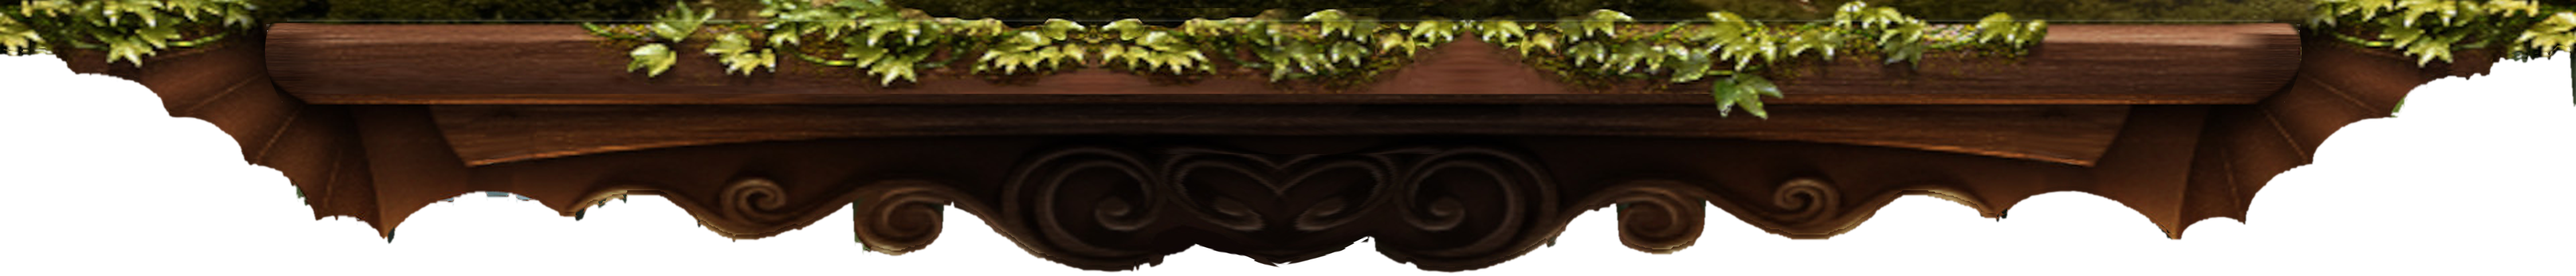
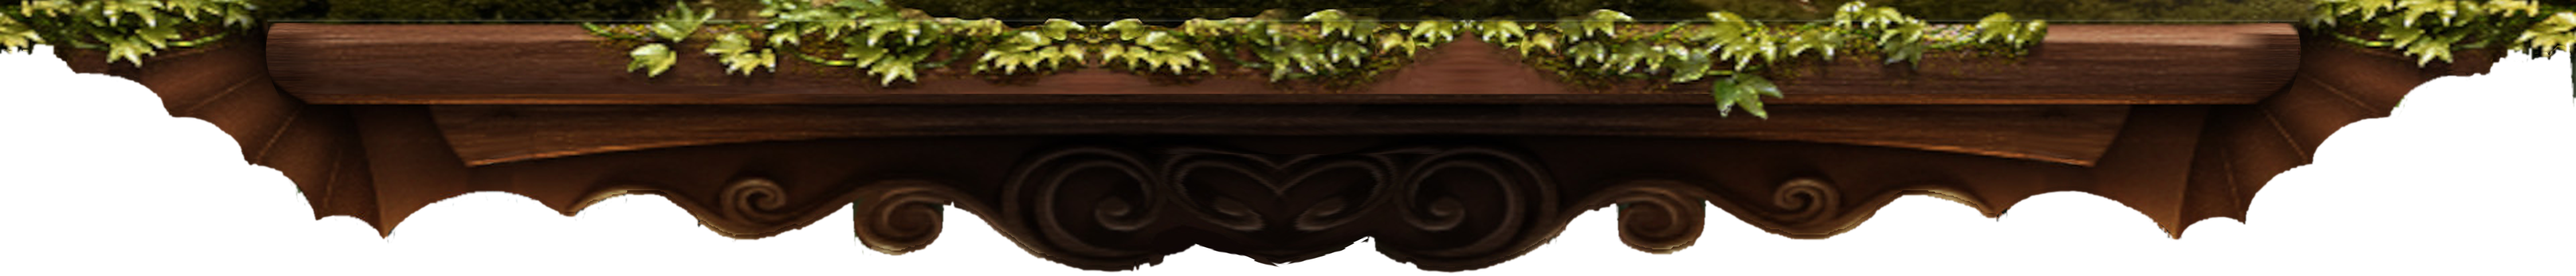
fix(drevo-a-erb-v3): clean cap edges and carved contour at 1920
- Ivy touching a cap's drawn edge now goes with the ivy, not the
  board, and dark shadow sits right behind each cap edge. This removes
  the light sliver along the right log end.
- Background baked in just above the plank boundary is now made
  transparent: the unbroken run of non-wood pixels going up from the
  boundary. This removes the dark drips and light bites under the
  left scallops.
- The filled photo area is tall enough for portrait-tablet aspect
  ratios too.
- CREDITS.md now names forest-header.jpg as the photo source.

diff --git a/tools/hero-v3/build_layers.py b/tools/hero-v3/build_layers.py
@@ -29,7 +29,7 @@ BAND = (70, 144)             # plain board rows removed
 DELTA = BAND[1] - BAND[0]
 MOSS_FADE = (12, 21)         # the moss strip along the top fades out between these rows
 LEAF = (1232, 1338, 58, 94)  # the one ivy leaf that hangs into the cut band stays in place
-PLANK_SCALE_MIN = 0.75       # lowest plank-to-photo scale ratio the hero produces (wide-short screens = 1)
+PLANK_SCALE_MIN = 0.6        # lowest plank-to-photo scale ratio the hero produces (portrait tablets ~0.65)
 
 
 def cap_left(y):   # barrel-shaped left end of the board, x of its outer edge per source row
@@ -145,12 +145,19 @@ def build_plank(hdr, ysub, hole1, strip, S):
     hue, sat, val = hsv(hdr[:H1])
     ivy1 = (hue > 50) & (hue < 120) & (sat > 0.22) & (val > 0.18)
     ivy1 = ndi.binary_dilation(ndi.binary_closing(ivy1, iterations=1), iterations=1).astype(np.float32)
-    # photo fringe baked into the carved edge: light or green/blue pixels just inside the contour
-    rows1 = np.arange(H1)[:, None]
-    near = (rows1 >= np.floor(ysub)[None, :] - 3) & (rows1 <= np.floor(ysub)[None, :] + 1)
+    # photo baked in just inside the contour: from the boundary upward, the unbroken run of pixels that
+    # aren't wood-coloured (green, grey, blue or white) is background and becomes transparent
     warm = ((hue <= 48) | (hue >= 335)) & (sat >= 0.15)
     whitish = (sat < 0.18) & (val > 0.45)
-    fringe1 = (near & (~warm | whitish) & (val > 0.3)).astype(np.float32)
+    notwood = (~warm | whitish) & (val > 0.08)
+    fringe1 = np.zeros((H1, W1), np.float32)
+    yb0 = np.floor(ysub).astype(int)
+    alive = np.ones(W1, bool)
+    for k in range(-1, 8):
+        y = np.clip(yb0 - k, 0, H1 - 1)
+        hit = alive & notwood[y, np.arange(W1)]
+        fringe1[y[hit], np.arange(W1)[hit]] = 1
+        alive &= hit | (k < 0)
 
     H, W = H1 * S, W1 * S
     up = lambda m: m.astype(np.float32) if S == 1 else np.asarray(
@@ -190,8 +197,10 @@ def build_plank(hdr, ysub, hole1, strip, S):
     xsrc = xs[None, :]
     in_board_rows = (ysrc >= BOARD[0]) & (ysrc <= BOARD[1])
     mb = ((xsrc >= CAP_L) & (xsrc <= CAP_R)).astype(np.float32) * np.ones_like(ysrc)
-    capl = np.clip((xsrc - cap_left(ysrc)) * S + 0.5, 0, 1)
-    capr = np.clip((cap_right(ysrc) - xsrc) * S + 0.5, 0, 1)
+    # caps sit slightly inside their drawn edge, and ivy touching the edge goes with the ivy, not the board
+    noivy = 1 - np.clip(up(ivy1) * 1.5, 0, 1)
+    capl = np.clip((xsrc - cap_left(ysrc) - 0.7) * S + 0.5, 0, 1) * noivy
+    capr = np.clip((cap_right(ysrc) - xsrc - 0.7) * S + 0.5, 0, 1) * noivy
     zone_l = (xsrc >= CAP_L - 10) & (xsrc <= 222)
     zone_r = (xsrc >= 1690) & (xsrc <= CAP_R + 8)
     mb = np.where(in_board_rows & zone_l, capl, mb)
@@ -219,11 +228,11 @@ def build_plank(hdr, ysub, hole1, strip, S):
     Bf = np.concatenate([np.where(a > 1e-4, Bcp[..., :3] / np.maximum(a, 1e-4), 0), a], -1)
 
     Es = shift_up(E, dl)
-    # behind the cap edges, carry the shifted ivy/wing a few pixels further in so no gap opens
-    for x0, x1, step in ((int(185 * S), int(214 * S), 1), (int(1716 * S), int(1694 * S), -1)):
-        for x in range(x0, x1, step):
-            m = (Es[:, x, 3] < 0.5) & (Es[:, x - step, 3] >= 0.5) & (np.arange(H) < 90 * S)
-            Es[m, x] = Es[m, x - step]
+    # right behind each cap edge sits dark shadow, so the cap's soft edge never shows a gap or light ivy
+    shadow = np.zeros_like(Es[:1, :1]) + np.array([0.10, 0.06, 0.035, 1.0], np.float32)
+    for xa, xb in ((190, 212), (1697, 1720)):
+        sl = np.s_[BOARD[0] * S:(BOARD[1] - DELTA + 1) * S, int(xa * S):int(xb * S)]
+        Es[sl] = over(Es[sl], np.broadcast_to(shadow, Es[sl].shape))
     # the moss strip stays where it is across the full width, behind the raised ivy and the board;
     # above the caps it also lies in front of the ivy, so the ivy's edge that the cap used to hide fades into it
     fade = np.clip((MOSS_FADE[1] * S - rows) / ((MOSS_FADE[1] - MOSS_FADE[0]) * S), 0, 1)

diff --git a/assets/CREDITS.md b/assets/CREDITS.md
@@ -6,8 +6,8 @@ Only public-domain or CC0 images are used. Fonts are SIL Open Font License (OFL)
 ## Images
 
 The Dřevo a erb v3 hero layers (`v3/hero-forest.jpg`, `v3/plank.webp`, `v3/plank.png`,
-`v3/logo.png`) are cut from this project's own artwork (`forest-header.jpg`,
-`forest-only.jpg`, `shield-sm.png`), so they have no third-party source.
+`v3/logo.png`) are cut from this project's own artwork (`forest-header.jpg` and
+`shield-sm.png`), so they have no third-party source.
 
 | File | Source | Author | Licence |
 | --- | --- | --- | --- |
